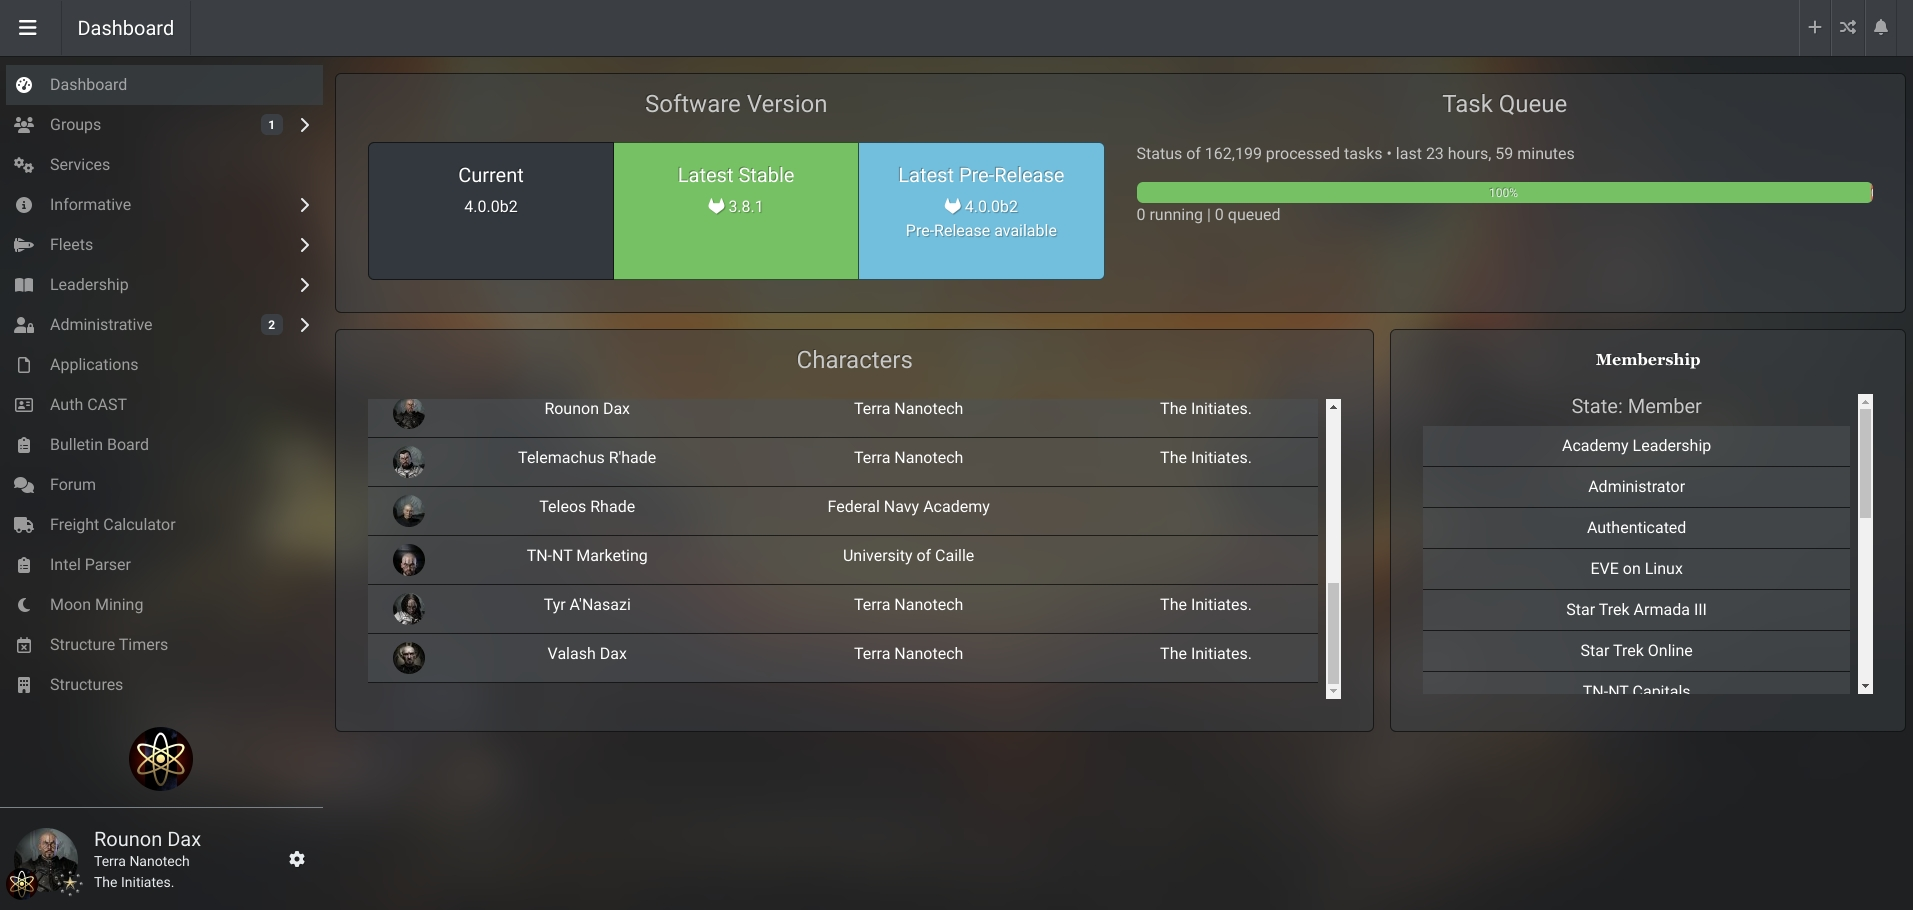
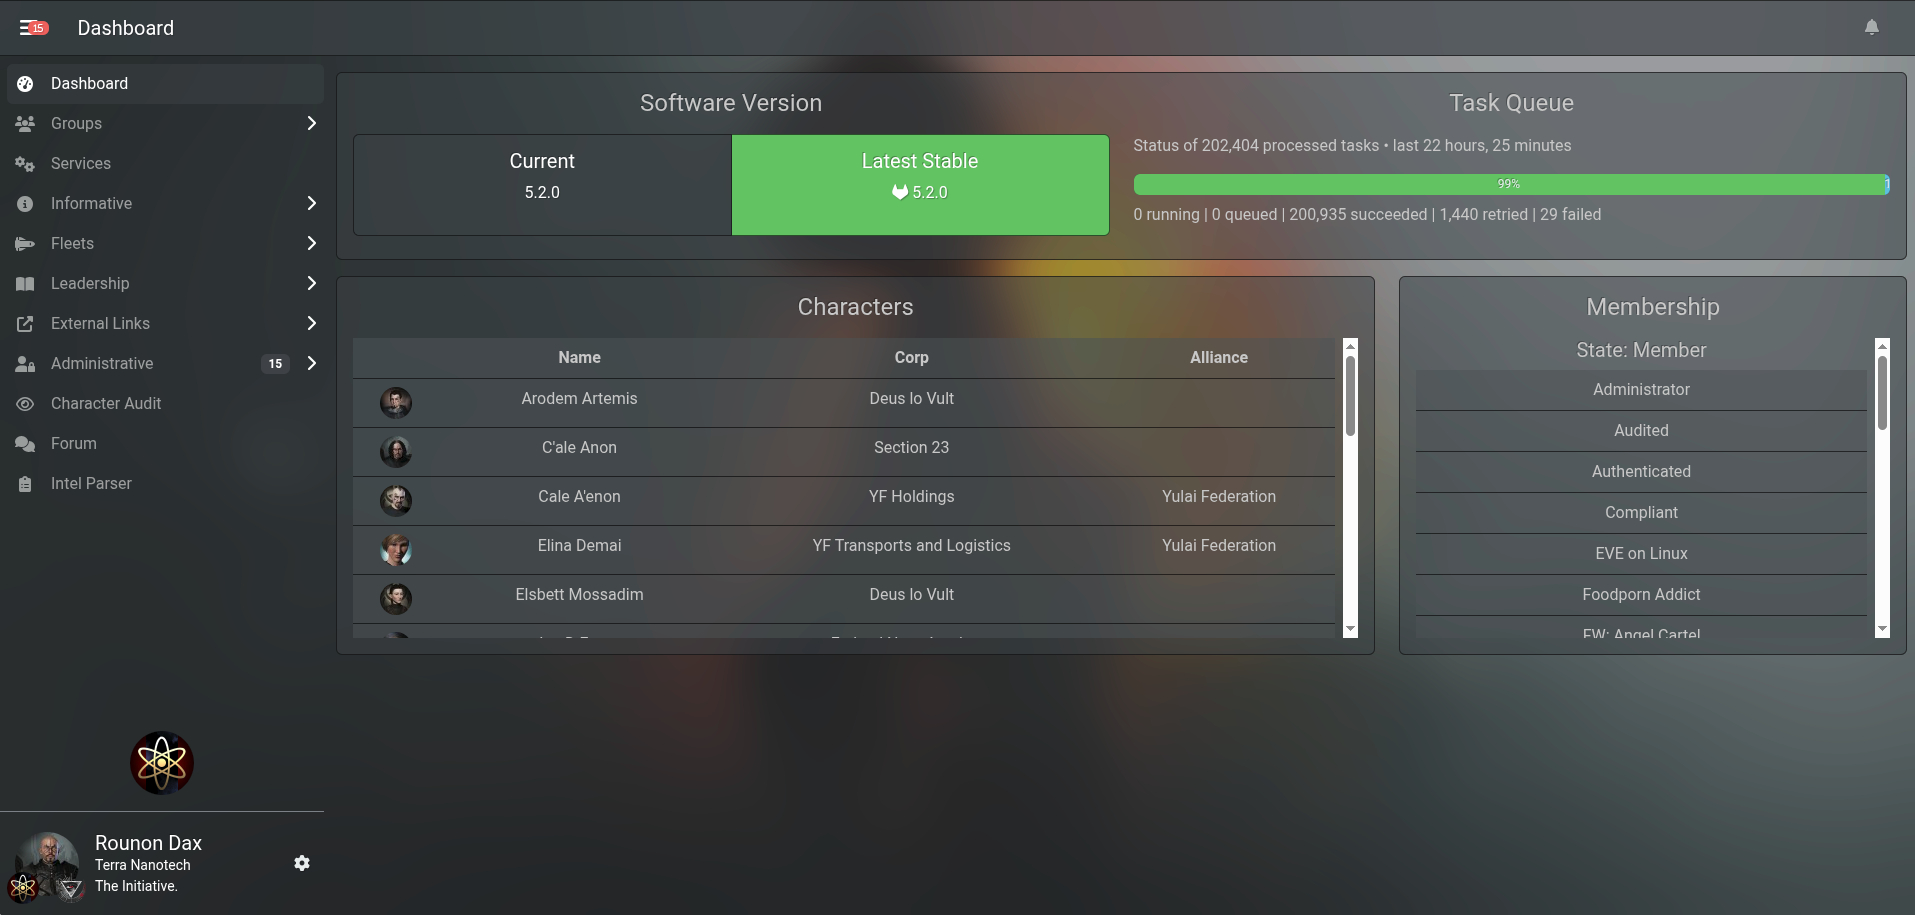
[RELEASE] v5.0.3
## [5.0.3] - 2026-08-04

### Change

- CSS modernized (If you have an older browser that can't handle the new CSS, update your browser…)

diff --git a/tnnt_templates/__init__.py b/tnnt_templates/__init__.py
@@ -2,5 +2,5 @@
 TN-NT Templates init
 """
 
-__version__ = "5.0.2"
+__version__ = "5.0.3"
 __title__ = "Terra Nanotech Alliance Auth Template Overrides"

diff --git a/README.md b/README.md
@@ -46,7 +46,7 @@ ______________________________________________________________________
 ## Install<a name="install"></a>
 
 ```shell
-pip install tnnt-templates==5.0.2
+pip install tnnt-templates==5.0.3
 ```
 
 In `local.py` right after `INSTALLED_APPS`:
@@ -54,8 +54,8 @@ In `local.py` right after `INSTALLED_APPS`:
 ```python
 # TN-NT Auth Templates - https://github.com/terra-nanotech/tn-nt-auth-templates
 INSTALLED_APPS.insert(
-    0, "tnnt_templates"
-)  # Bootstrap 3 fallback for AA community app that haven't been updated to Bootstrap 5 yet.
+    0, "tnnt_templates"  # Template overrides for Terra Nanotech Auth Templates
+)
 
 if "tnnt_templates" in INSTALLED_APPS:
     # Add TN-NT Auth Templates theme
@@ -84,18 +84,4 @@ if "tnnt_templates" in INSTALLED_APPS:
     TNNT_TEMPLATE_ENTITY_ID = 8154711  #  replace with your corp/alliance ID
     TNNT_TEMPLATE_ENTITY_TYPE = "corporation"  # default: "alliance"
     TNNT_TEMPLATE_ENTITY_NAME = "My Awesome Corp/Alliance"  # your corp/alliance name
-```
-
-**Important**
-
-If you are using `AA-GDPR`, the template stuff needs to be **after** the `AA_GDPR`
-entry, like this:
-
-```python
-# GDPR Compliance
-INSTALLED_APPS.insert(0, "aagdpr")
-AVOID_CDN = True
-
-# TN-NT Auth Templates
-INSTALLED_APPS.insert(0, "tnnt_templates")
 ```

diff --git a/CHANGELOG.md b/CHANGELOG.md
@@ -48,6 +48,8 @@ Section Order:
 
 <!-- Your changes go here -->
 
+## [5.0.3] - 2026-08-04
+
 ### Change
 
 - CSS modernized (If you have an older browser that can't handle the new CSS, update your browser…)
@@ -1849,6 +1851,7 @@ run it with any version prior!**
 [5.0.0]: https://github.com/terra-nanotech/tn-nt-auth-templates/compare/v4.0.1...v5.0.0 "v5.0.0"
 [5.0.1]: https://github.com/terra-nanotech/tn-nt-auth-templates/compare/v5.0.0...v5.0.1 "v5.0.1"
 [5.0.2]: https://github.com/terra-nanotech/tn-nt-auth-templates/compare/v5.0.1...v5.0.2 "v5.0.2"
-[in development]: https://github.com/terra-nanotech/tn-nt-auth-templates/compare/v5.0.2...HEAD "In Development"
+[5.0.3]: https://github.com/terra-nanotech/tn-nt-auth-templates/compare/v5.0.2...v5.0.3 "v5.0.3"
+[in development]: https://github.com/terra-nanotech/tn-nt-auth-templates/compare/v5.0.3...HEAD "In Development"
 [keep a changelog]: http://keepachangelog.com/ "Keep a Changelog"
 [semantic versioning]: http://semver.org/ "Semantic Versioning"
